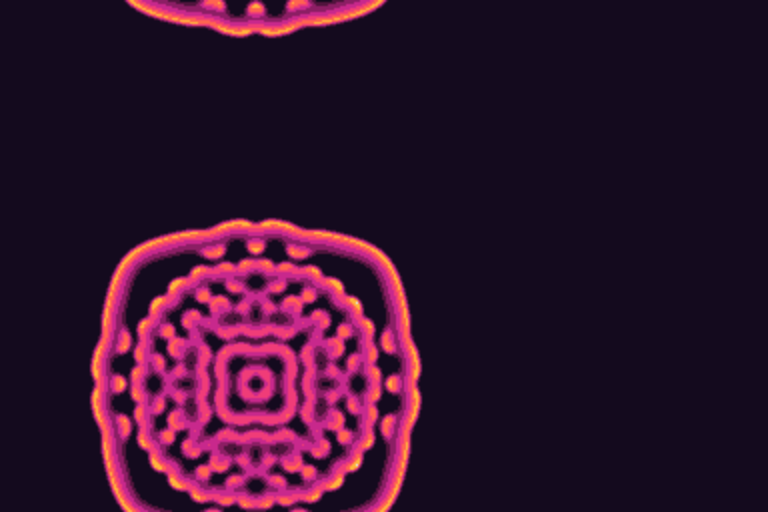
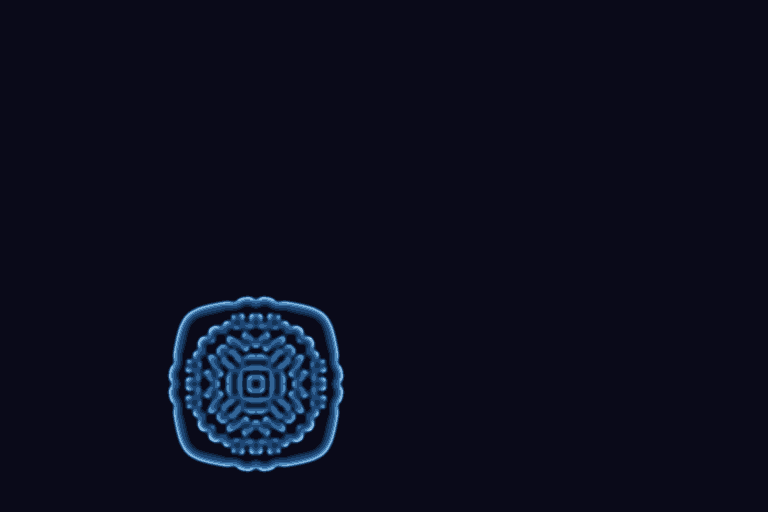
#32 reaction-diffusion: 1→8 anim modes, smooth color_morph blend, cusps removed

Changed region(s): [[0.0938, 0.4062, 0.5625, 1.0], [0.1562, 0.0, 0.5, 0.0938]]

diff --git a/image_pipeline/methods/simulations.py b/image_pipeline/methods/simulations.py
@@ -1161,9 +1161,8 @@ def method_dla(out_dir: Path, seed: int, params=None):
              "palette": {"description": "PALETTES name", "default": "cool"},
              "inject_x": {"description": "injection X position (0-1 fraction, 0=none)", "min": 0.0, "max": 1.0, "default": 0.0},
              "inject_y": {"description": "injection Y position (0-1 fraction)", "min": 0.0, "max": 1.0, "default": 0.0},
-             "sweep_axis": {"description": "parameter sweep for animation: none, f, k, both, cycle", "default": "none"},
              "time": {"description": "animation time param (0-2π)", "min": 0.0, "max": 6.28, "default": 0.0},
-             "anim_mode": {"description": "animation mode", "choices": ["none", "sweep"], "default": "none"},
+             "anim_mode": {"description": "animation mode", "choices": ["none", "f_sweep", "k_sweep", "fk_orbit", "preset_cycle", "color_morph", "diffusion_wave", "injection_orbit"], "default": "none"},
              "anim_speed": {"description": "animation speed multiplier", "min": 0.1, "max": 5.0, "default": 1.0},
          })
 def method_reaction_diffusion(out_dir: Path, seed: int, params=None):
@@ -1236,7 +1235,6 @@ def method_reaction_diffusion(out_dir: Path, seed: int, params=None):
     palette_name = params.get("palette", "cool")
     inject_x = max(0.0, min(1.0, float(params.get("inject_x", 0.0))))
     inject_y = max(0.0, min(1.0, float(params.get("inject_y", 0.0))))
-    sweep_axis = params.get("sweep_axis", "none")
 
     pal = PALETTES.get(palette_name, [(80, 60, 40)])
     n_pal = len(pal)
@@ -1326,25 +1324,22 @@ def method_reaction_diffusion(out_dir: Path, seed: int, params=None):
 
     # --- Time-based animation ---
     t = anim_time * anim_speed
-    if anim_mode == "sweep" and sweep_axis != "none":
-        t_norm = t / (2 * math.pi)
-        if sweep_axis == "f":
-            F = 0.015 + 0.045 * abs(math.sin(t * 0.5))
-        elif sweep_axis == "k":
-            k = 0.045 + 0.025 * abs(math.sin(t * 0.7))
-        elif sweep_axis == "both":
-            # Orbit through F-k phase space
-            F = 0.015 + 0.045 * abs(math.sin(t * 0.4))
-            k = 0.045 + 0.025 * abs(math.cos(t * 0.3))
-        elif sweep_axis == "cycle":
-            # Cycle through presets
-            preset_names = list(PRESETS.keys())
-            idx = int(t_norm * len(preset_names)) % len(preset_names)
-            preset_p = PRESETS[preset_names[idx]]
-            F = preset_p["F"]
-            k = preset_p["k"]
-            Du = preset_p["Du"]
-            Dv = preset_p["Dv"]
+    _color_modes = ["v_norm", "u", "u_minus_v", "phase", "gradient", "frequency"]
+    _anim_active = anim_mode != "none"
+    _anim_base_F = F
+    _anim_base_k = k
+    _anim_base_Du = Du
+    _anim_base_Dv = Dv
+    _anim_base_color = color_mode
+    _anim_base_inject_x = inject_x
+    _anim_base_inject_y = inject_y
+    _anim_base_has_injection = has_injection
+    _anim_preset_names = list(PRESETS.keys())
+    _blend_color = 0.0
+    _color_a = color_mode
+    _color_b = color_mode
+    _color_weights = [1.0]
+    _color_modes_list = [color_mode]
 
     # --- Color function ---
     def render_frame(u_arr, v_arr, w_arr=None):
@@ -1408,8 +1403,64 @@ def method_reaction_diffusion(out_dir: Path, seed: int, params=None):
             u = u.clip(0, 1)
             v = v.clip(0, 1)
 
+        # Animate parameters during simulation
+        if _anim_active:
+            _t = t + (i / max(1, iterations)) * 4 * math.pi * anim_speed
+            if anim_mode == "f_sweep":
+                F = 0.015 + 0.045 * (0.5 + 0.5 * math.sin(_t))
+            elif anim_mode == "k_sweep":
+                k = 0.045 + 0.025 * (0.5 + 0.5 * math.sin(_t * 1.4))
+            elif anim_mode == "fk_orbit":
+                F = 0.015 + 0.045 * (0.5 + 0.5 * math.sin(_t * 0.8))
+                k = 0.045 + 0.025 * (0.5 + 0.5 * math.cos(_t * 0.6))
+            elif anim_mode == "preset_cycle":
+                raw_idx = _t * 0.4
+                idx_a = int(raw_idx) % len(_anim_preset_names)
+                idx_b = (idx_a + 1) % len(_anim_preset_names)
+                frac = raw_idx % 1.0
+                pa = PRESETS[_anim_preset_names[idx_a]]
+                pb = PRESETS[_anim_preset_names[idx_b]]
+                F = pa["F"] * (1 - frac) + pb["F"] * frac
+                k = pa["k"] * (1 - frac) + pb["k"] * frac
+                Du = pa["Du"] * (1 - frac) + pb["Du"] * frac
+                Dv = pa["Dv"] * (1 - frac) + pb["Dv"] * frac
+            elif anim_mode == "color_morph":
+                # Continuous blend across all color modes — no discrete switching
+                raw_idx = _t * 0.4
+                n_modes = len(_color_modes)
+                weights = []
+                for j in range(n_modes):
+                    w = 0.5 + 0.5 * math.cos(raw_idx - j * 2 * math.pi / n_modes)
+                    weights.append(w ** 4)  # Sharpen peaks
+                total = sum(weights)
+                weights = [w / total for w in weights]
+                _color_weights = weights
+                _color_modes_list = _color_modes
+            elif anim_mode == "diffusion_wave":
+                Du = 0.08 + 0.2 * (0.5 + 0.5 * math.sin(_t * 0.8))
+                Dv = 0.03 + 0.15 * (0.5 + 0.5 * math.cos(_t * 0.6))
+            elif anim_mode == "injection_orbit":
+                has_injection = True
+                inject_x = 0.5 + 0.4 * math.cos(_t)
+                inject_y = 0.5 + 0.4 * math.sin(_t)
+
         if i % _cap_interval == 0:
-            frame = render_frame(u, v, w if species == "bz_3species" else None)
+            if _anim_active and anim_mode == "color_morph":
+                # Weighted blend across all color modes
+                _saved_color = color_mode
+                frame = None
+                for _ci, _cm in enumerate(_color_modes_list):
+                    if _color_weights[_ci] < 0.01:
+                        continue
+                    color_mode = _cm
+                    _f = render_frame(u, v, w if species == "bz_3species" else None)
+                    if frame is None:
+                        frame = _f * _color_weights[_ci]
+                    else:
+                        frame += _f * _color_weights[_ci]
+                color_mode = _saved_color
+            else:
+                frame = render_frame(u, v, w if species == "bz_3species" else None)
             if scale != 1.0:
                 frame = cv2.resize(frame, (W, H), interpolation=cv2.INTER_LINEAR)
             capture_frame('32', frame)